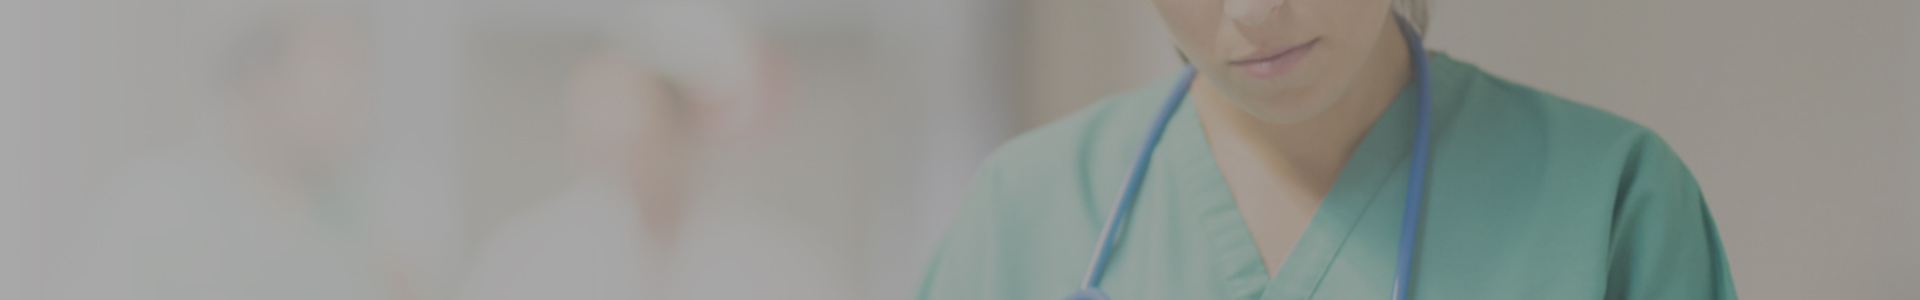
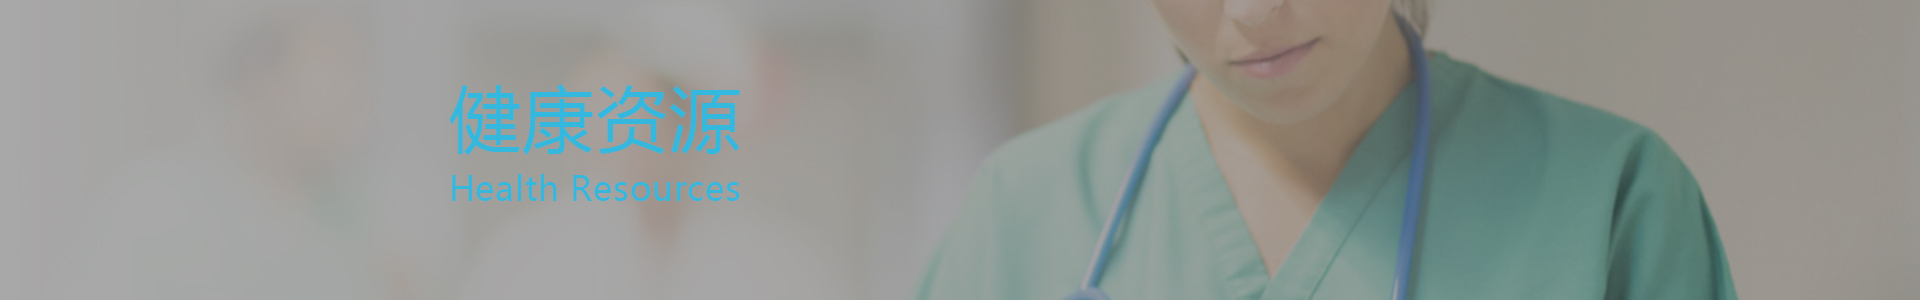
添加各页面header banner部分

Changed region(s): [[0.2188, 0.3, 0.4062, 0.51], [0.2188, 0.57, 0.4062, 0.69]]

diff --git a/src/module/healthInfo/healthInfo.vue b/src/module/healthInfo/healthInfo.vue
@@ -1,30 +1,35 @@
 <template>
-    <div id="app">
-       <cell></cell>
-       <h2>{{msg}}</h2>
-    </div>
+  <div>
+    <Header menu-title="健康资源"></Header>
+    <section class="top-banner">
+      <img src="../../../static/img/HeathAbout_banner.jpg">
+    </section>
+    <Footer></Footer>
+  </div>
 </template>
 
 <script>
-import cell from '../../components/HelloWorld.vue'
+import Header from "../../components/common/header.vue";
+import Footer from "../../components/common/footer.vue";
 export default {
-  name: 'app',
-  components: { cell },
-  data () {
+  name: "app",
+  components: { Header, Footer },
+  data() {
     return {
-      msg: '这里是健康资讯！'
-    }
+      msg: "这里是健康资讯！"
+    };
   }
-}
+};
 </script>
 
 <style>
-#app {
-    font-family: 'Avenir', Helvetica, Arial, sans-serif;
-    -webkit-font-smoothing: antialiased;
-    -moz-osx-font-smoothing: grayscale;
-    text-align: center;
-    color: #2c3e50;
-    margin-top: 60px;
+.top-banner {
+  width: 100%;
+  height: 300px;
+  position: relative;
+}
+.top-banner img {
+  width: 100%;
+  height: auto;
 }
 </style>

diff --git a/src/module/infoList/infoList.vue b/src/module/infoList/infoList.vue
@@ -1,30 +1,35 @@
 <template>
-    <div id="app">
-       <cell></cell>
-       <h2>{{msg}}</h2>
-    </div>
+  <div>
+    <Header menu-title="资讯"></Header>
+    <section class="top-banner">
+      <img src="../../../static/img/detailPage_banner.jpg">
+    </section>
+    <Footer></Footer>
+  </div>
 </template>
 
 <script>
-import cell from '../../components/HelloWorld.vue'
+import Header from "../../components/common/header.vue";
+import Footer from "../../components/common/footer.vue";
 export default {
-  name: 'app',
-  components: { cell },
-  data () {
+  name: "app",
+  components: { Header, Footer },
+  data() {
     return {
-      msg: '这里是资讯列表！'
-    }
+      msg: "这里是资讯列表！"
+    };
   }
-}
+};
 </script>
 
 <style>
-#app {
-    font-family: 'Avenir', Helvetica, Arial, sans-serif;
-    -webkit-font-smoothing: antialiased;
-    -moz-osx-font-smoothing: grayscale;
-    text-align: center;
-    color: #2c3e50;
-    margin-top: 60px;
+.top-banner {
+  width: 100%;
+  height: 300px;
+  position: relative;
+}
+.top-banner img {
+  width: 100%;
+  height: auto;
 }
 </style>

diff --git a/src/module/aboutUs/aboutUs.vue b/src/module/aboutUs/aboutUs.vue
@@ -1,30 +1,35 @@
 <template>
-    <div id="app">
-       <cell></cell>
-       <h2>{{msg}}</h2>
-    </div>
+  <div>
+    <Header menu-title="关于我们"></Header>
+    <section class="top-banner">
+      <img src="../../../static/img/aboutUs_banner.jpg">
+    </section>
+    <Footer></Footer>
+  </div>
 </template>
 
 <script>
-import cell from '../../components/HelloWorld.vue'
+import Header from "../../components/common/header.vue";
+import Footer from "../../components/common/footer.vue";
 export default {
-  name: 'app',
-  components: { cell },
-  data () {
+  name: "app",
+  components: { Header, Footer },
+  data() {
     return {
-      msg: '这里是关于我们'
-    }
+      msg: "这里是关于我们"
+    };
   }
-}
+};
 </script>
 
 <style>
-#app {
-    font-family: 'Avenir', Helvetica, Arial, sans-serif;
-    -webkit-font-smoothing: antialiased;
-    -moz-osx-font-smoothing: grayscale;
-    text-align: center;
-    color: #2c3e50;
-    margin-top: 60px;
+.top-banner {
+  width: 100%;
+  height: 300px;
+  position: relative;
+}
+.top-banner img {
+  width: 100%;
+  height: auto;
 }
 </style>
